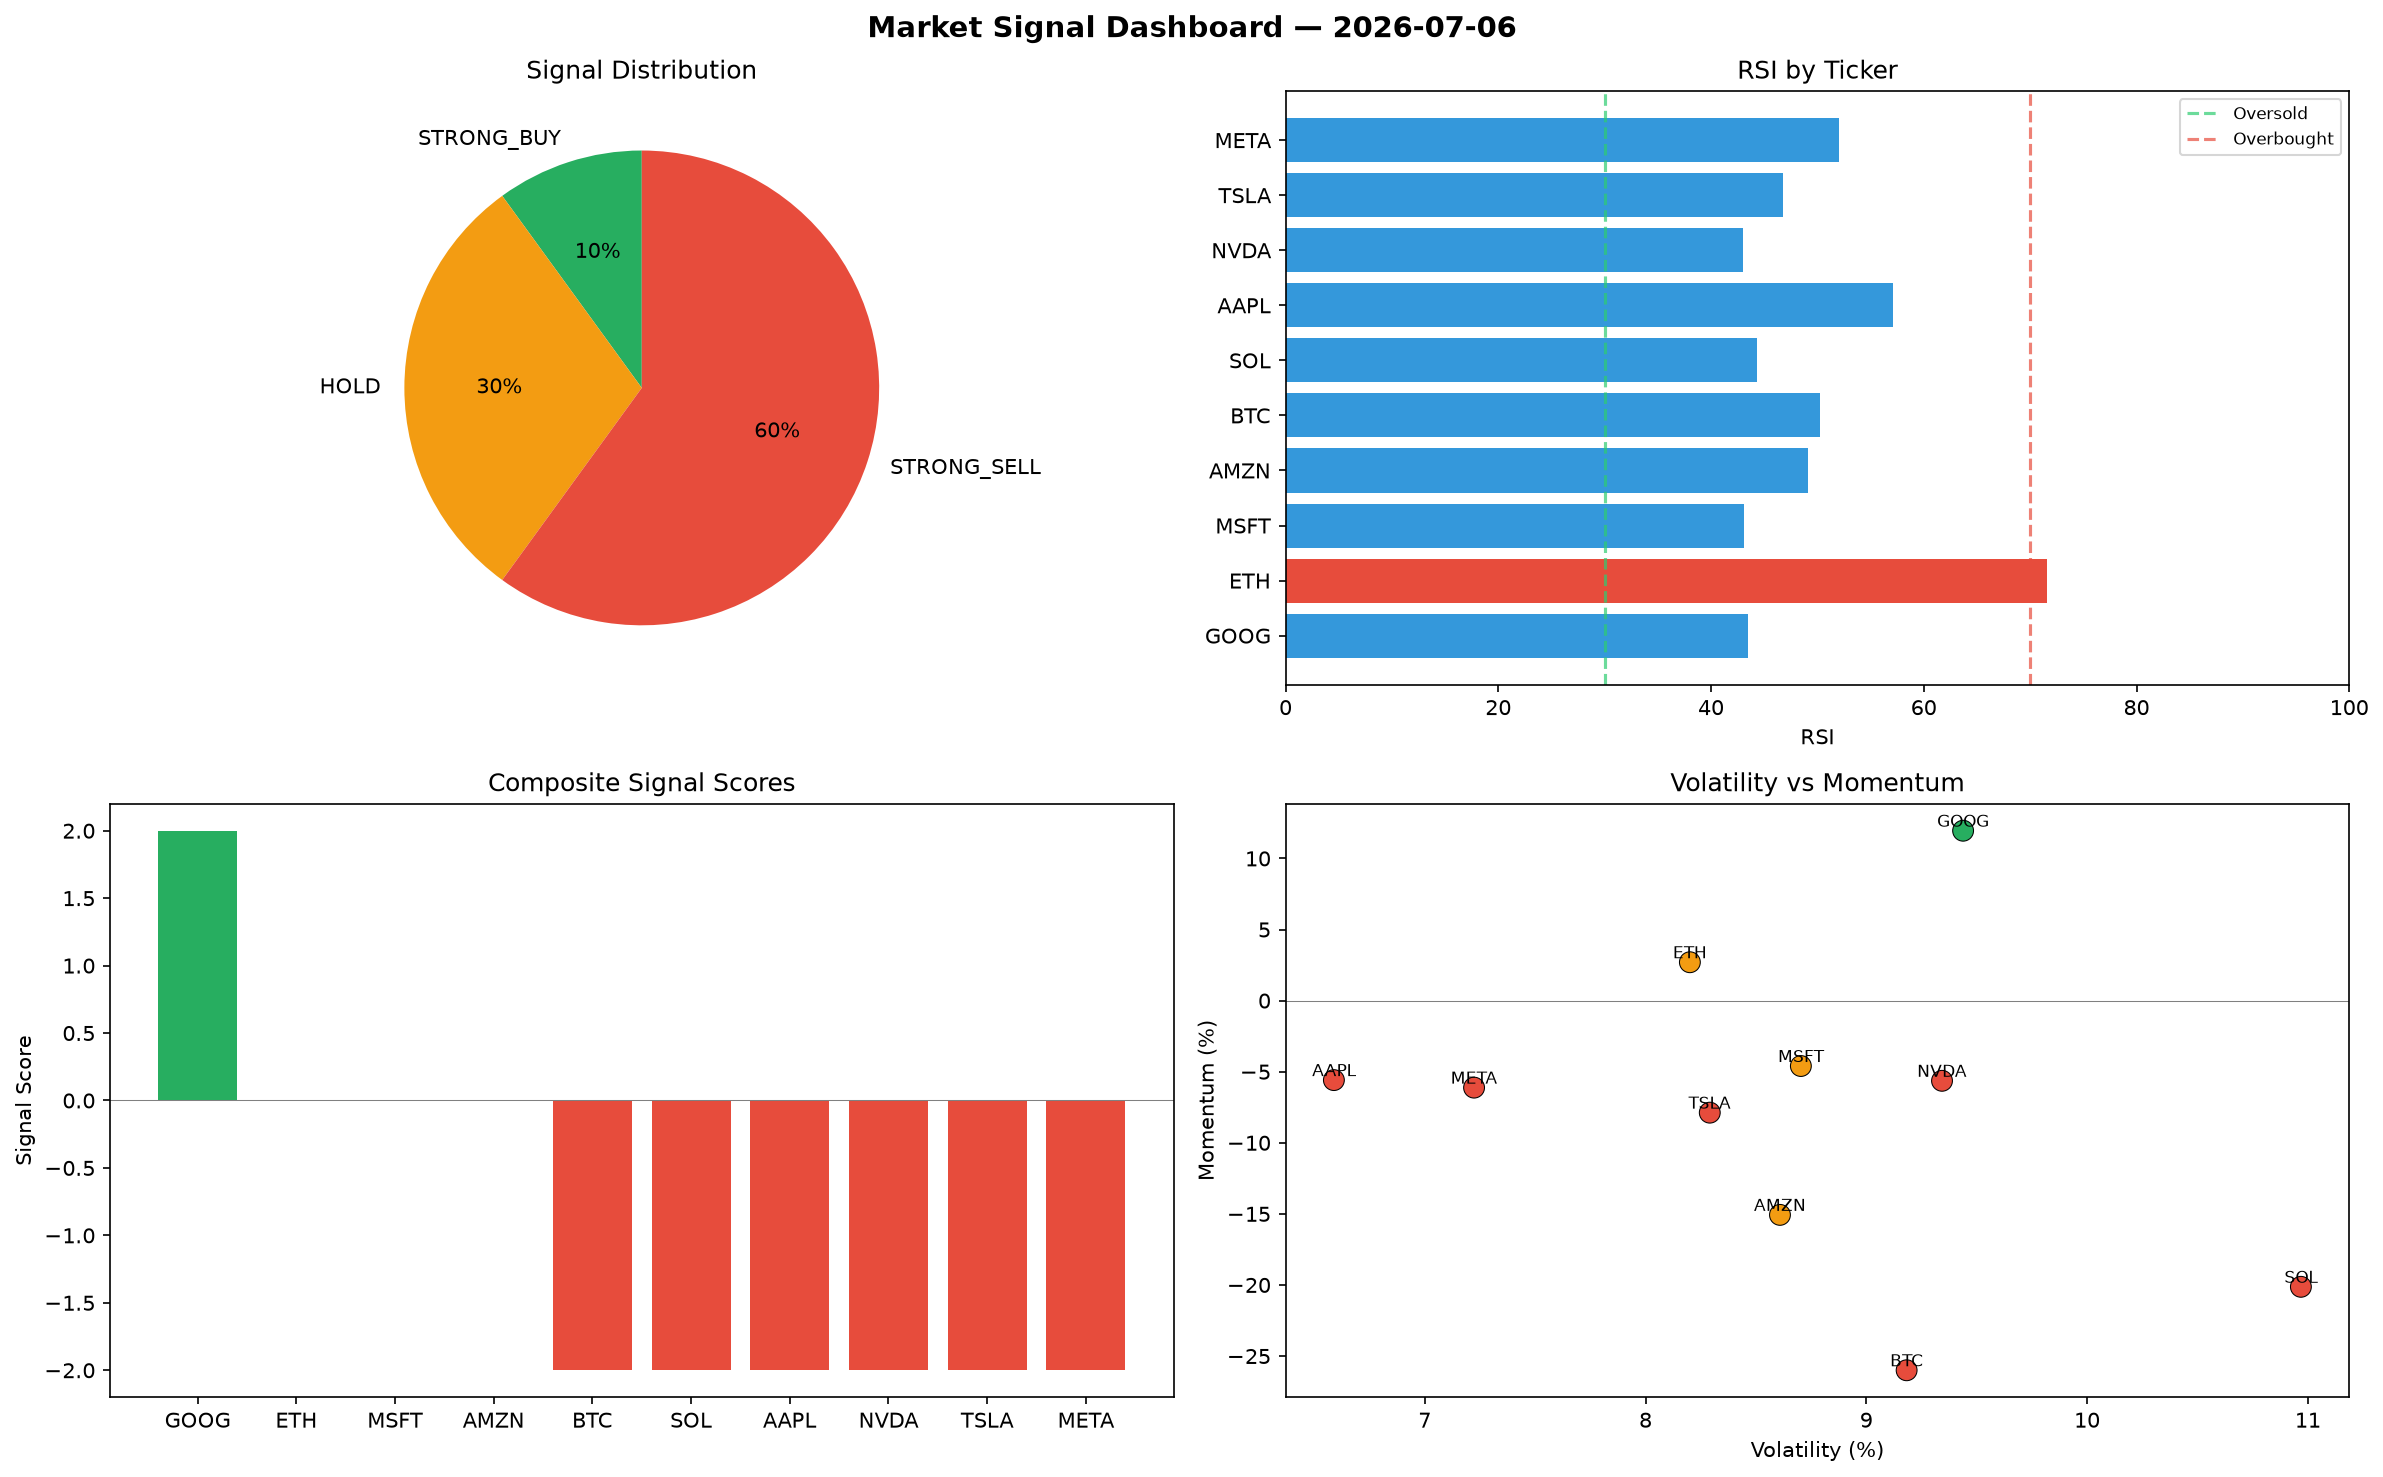
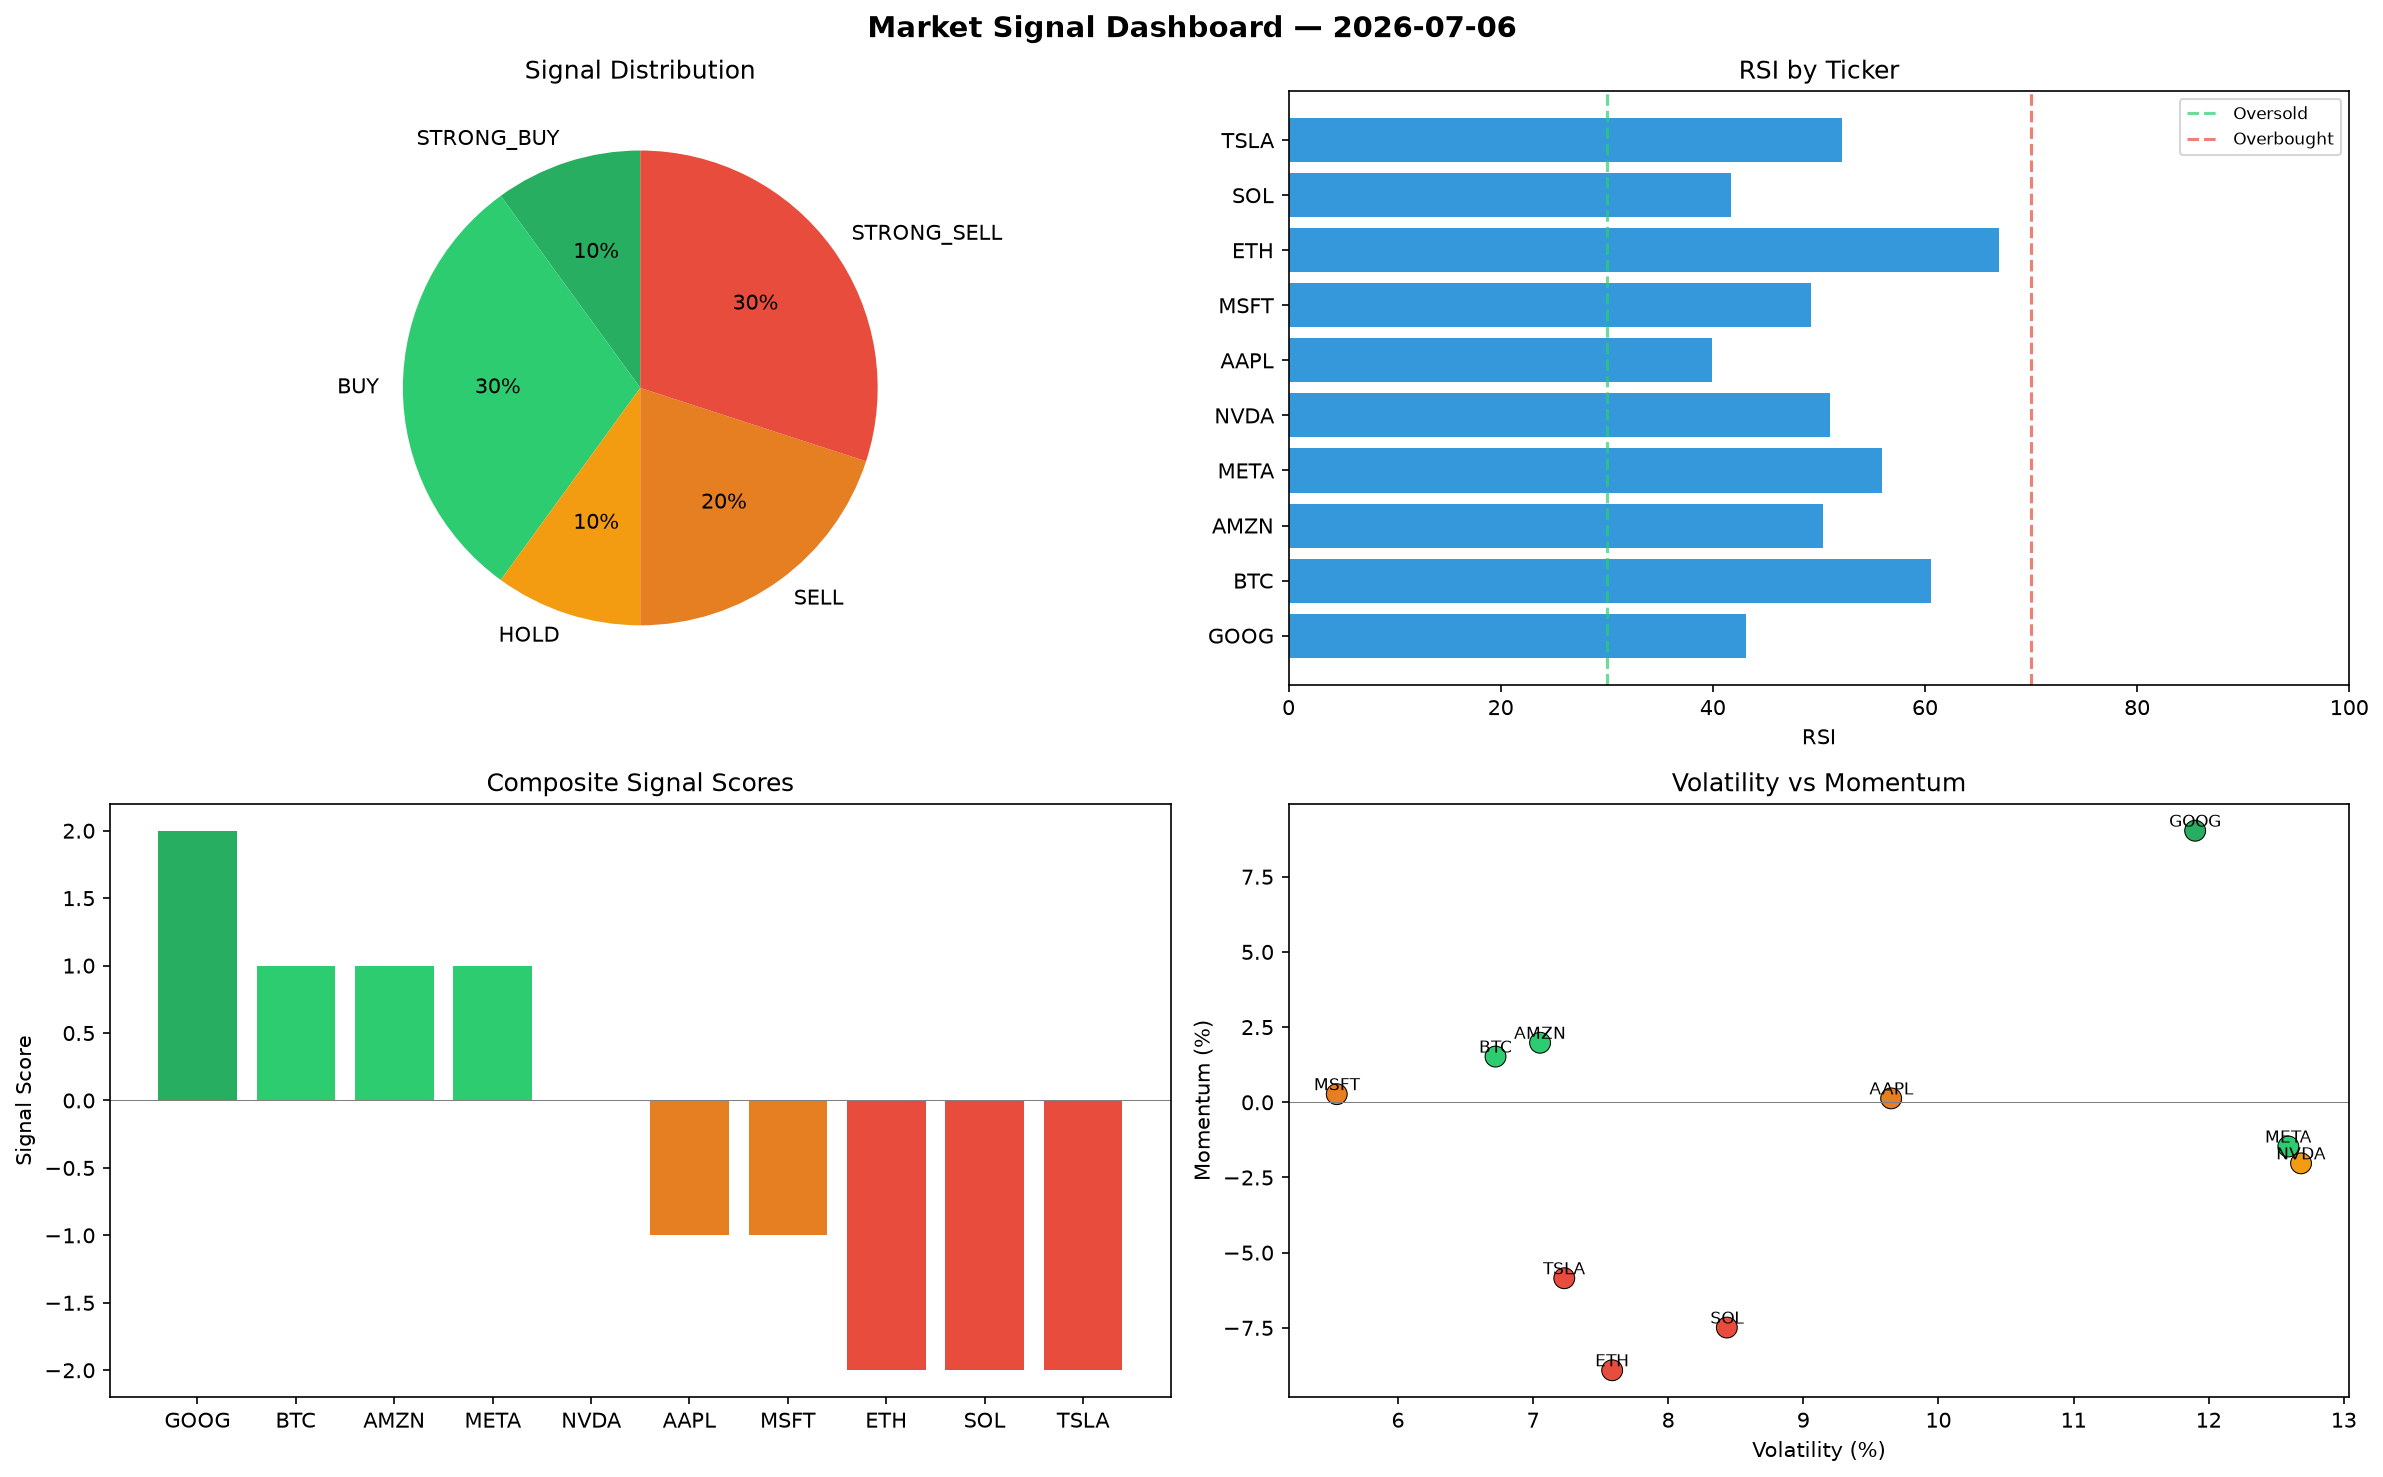
automated-bots: market signals 2026-07-06T17:20

diff --git a/logs/2026-07-06.md b/logs/2026-07-06.md
@@ -1,6 +1,6 @@
 # Market Signal Report — 2026-07-06
 
-**Run ID:** `a515dd7665` | **Buy:** 1 | **Sell:** 6 | **Hold:** 3
+**Run ID:** `2dd3ea0d46` | **Buy:** 4 | **Sell:** 5 | **Hold:** 1
 
 ![Dashboard](2026-07-06_dashboard.png)
 
@@ -8,28 +8,28 @@
 
 | Ticker | Price | Signal | Score | RSI | Momentum | Confidence |
 |--------|-------|--------|-------|-----|----------|------------|
-| GOOG | $391.08 | **STRONG_BUY** | 2 | 43.52 | 0.1195 | 0.5 |
-| ETH | $1839.16 | **HOLD** | 0 | 71.56 | 0.027 | 0.0 |
-| MSFT | $2425.17 | **HOLD** | 0 | 43.08 | -0.046 | 0.0 |
-| AMZN | $2354.38 | **HOLD** | 0 | 49.12 | -0.1507 | 0.0 |
-| BTC | $3572.1 | **STRONG_SELL** | -2 | 50.26 | -0.26 | 0.5 |
-| SOL | $1529.16 | **STRONG_SELL** | -2 | 44.31 | -0.2013 | 0.5 |
-| AAPL | $2024.58 | **STRONG_SELL** | -2 | 57.07 | -0.0559 | 0.5 |
-| NVDA | $378.94 | **STRONG_SELL** | -2 | 42.98 | -0.0564 | 0.5 |
-| TSLA | $1000.2 | **STRONG_SELL** | -2 | 46.72 | -0.0788 | 0.5 |
-| META | $818.49 | **STRONG_SELL** | -2 | 52.05 | -0.0612 | 0.5 |
+| GOOG | $2496.42 | **STRONG_BUY** | 2 | 43.16 | 0.0903 | 0.5 |
+| BTC | $1690.27 | **BUY** | 1 | 60.57 | 0.0152 | 0.25 |
+| AMZN | $2358.31 | **BUY** | 1 | 50.34 | 0.0198 | 0.25 |
+| META | $3024.29 | **BUY** | 1 | 55.99 | -0.0147 | 0.25 |
+| NVDA | $138.35 | **HOLD** | 0 | 51.04 | -0.0203 | 0.0 |
+| AAPL | $3640.43 | **SELL** | -1 | 39.9 | 0.0013 | 0.25 |
+| MSFT | $4558.04 | **SELL** | -1 | 49.26 | 0.0027 | 0.25 |
+| ETH | $3580.81 | **STRONG_SELL** | -2 | 66.96 | -0.0891 | 0.5 |
+| SOL | $1621.97 | **STRONG_SELL** | -2 | 41.67 | -0.0749 | 0.5 |
+| TSLA | $922.58 | **STRONG_SELL** | -2 | 52.22 | -0.0585 | 0.5 |
 
 ## Delta vs Yesterday
 
 | Ticker | Today | Yesterday | Price Change | Signal Changed |
 |--------|-------|-----------|-------------|----------------|
-| GOOG | STRONG_BUY | HOLD | 📉 -55.23% | ⚠ YES |
-| ETH | HOLD | SELL | 📈 48.55% | ⚠ YES |
-| MSFT | HOLD | STRONG_SELL | 📈 1387.47% | ⚠ YES |
-| AMZN | HOLD | HOLD | 📈 335.16% | — |
-| BTC | STRONG_SELL | STRONG_BUY | 📈 415.77% | ⚠ YES |
-| SOL | STRONG_SELL | HOLD | 📈 41.95% | ⚠ YES |
-| AAPL | STRONG_SELL | STRONG_SELL | 📉 -25.0% | — |
-| NVDA | STRONG_SELL | STRONG_BUY | 📈 63.97% | ⚠ YES |
-| TSLA | STRONG_SELL | STRONG_SELL | 📉 -74.78% | — |
-| META | STRONG_SELL | STRONG_SELL | 📈 232.88% | — |
+| GOOG | STRONG_BUY | HOLD | 📈 185.77% | ⚠ YES |
+| BTC | BUY | STRONG_BUY | 📈 144.05% | ⚠ YES |
+| AMZN | BUY | HOLD | 📈 335.88% | ⚠ YES |
+| META | BUY | STRONG_SELL | 📈 1129.99% | ⚠ YES |
+| NVDA | HOLD | STRONG_BUY | 📉 -40.14% | ⚠ YES |
+| AAPL | SELL | STRONG_SELL | 📈 34.85% | ⚠ YES |
+| MSFT | SELL | STRONG_SELL | 📈 2695.66% | ⚠ YES |
+| ETH | STRONG_SELL | SELL | 📈 189.22% | ⚠ YES |
+| SOL | STRONG_SELL | HOLD | 📈 50.57% | ⚠ YES |
+| TSLA | STRONG_SELL | STRONG_SELL | 📉 -76.74% | — |
